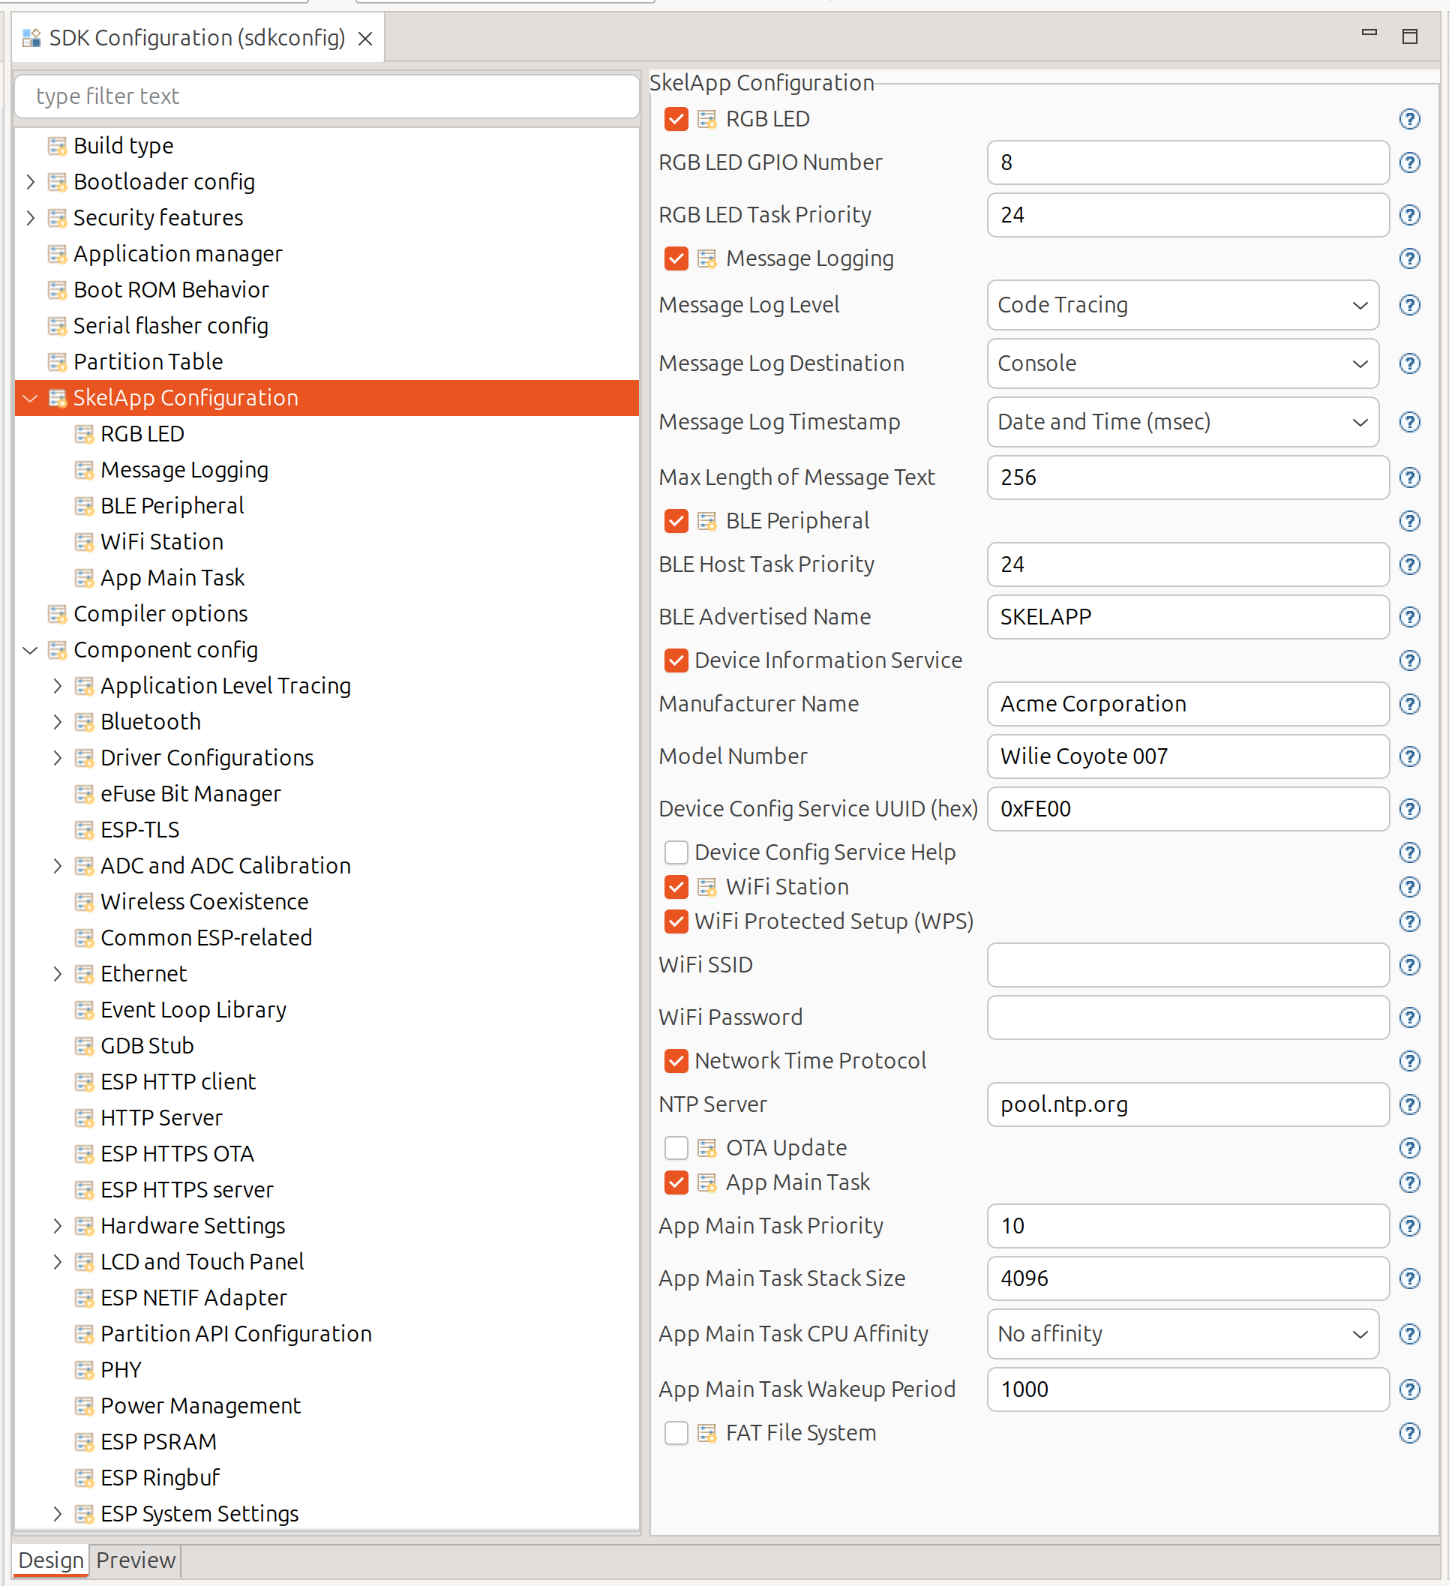
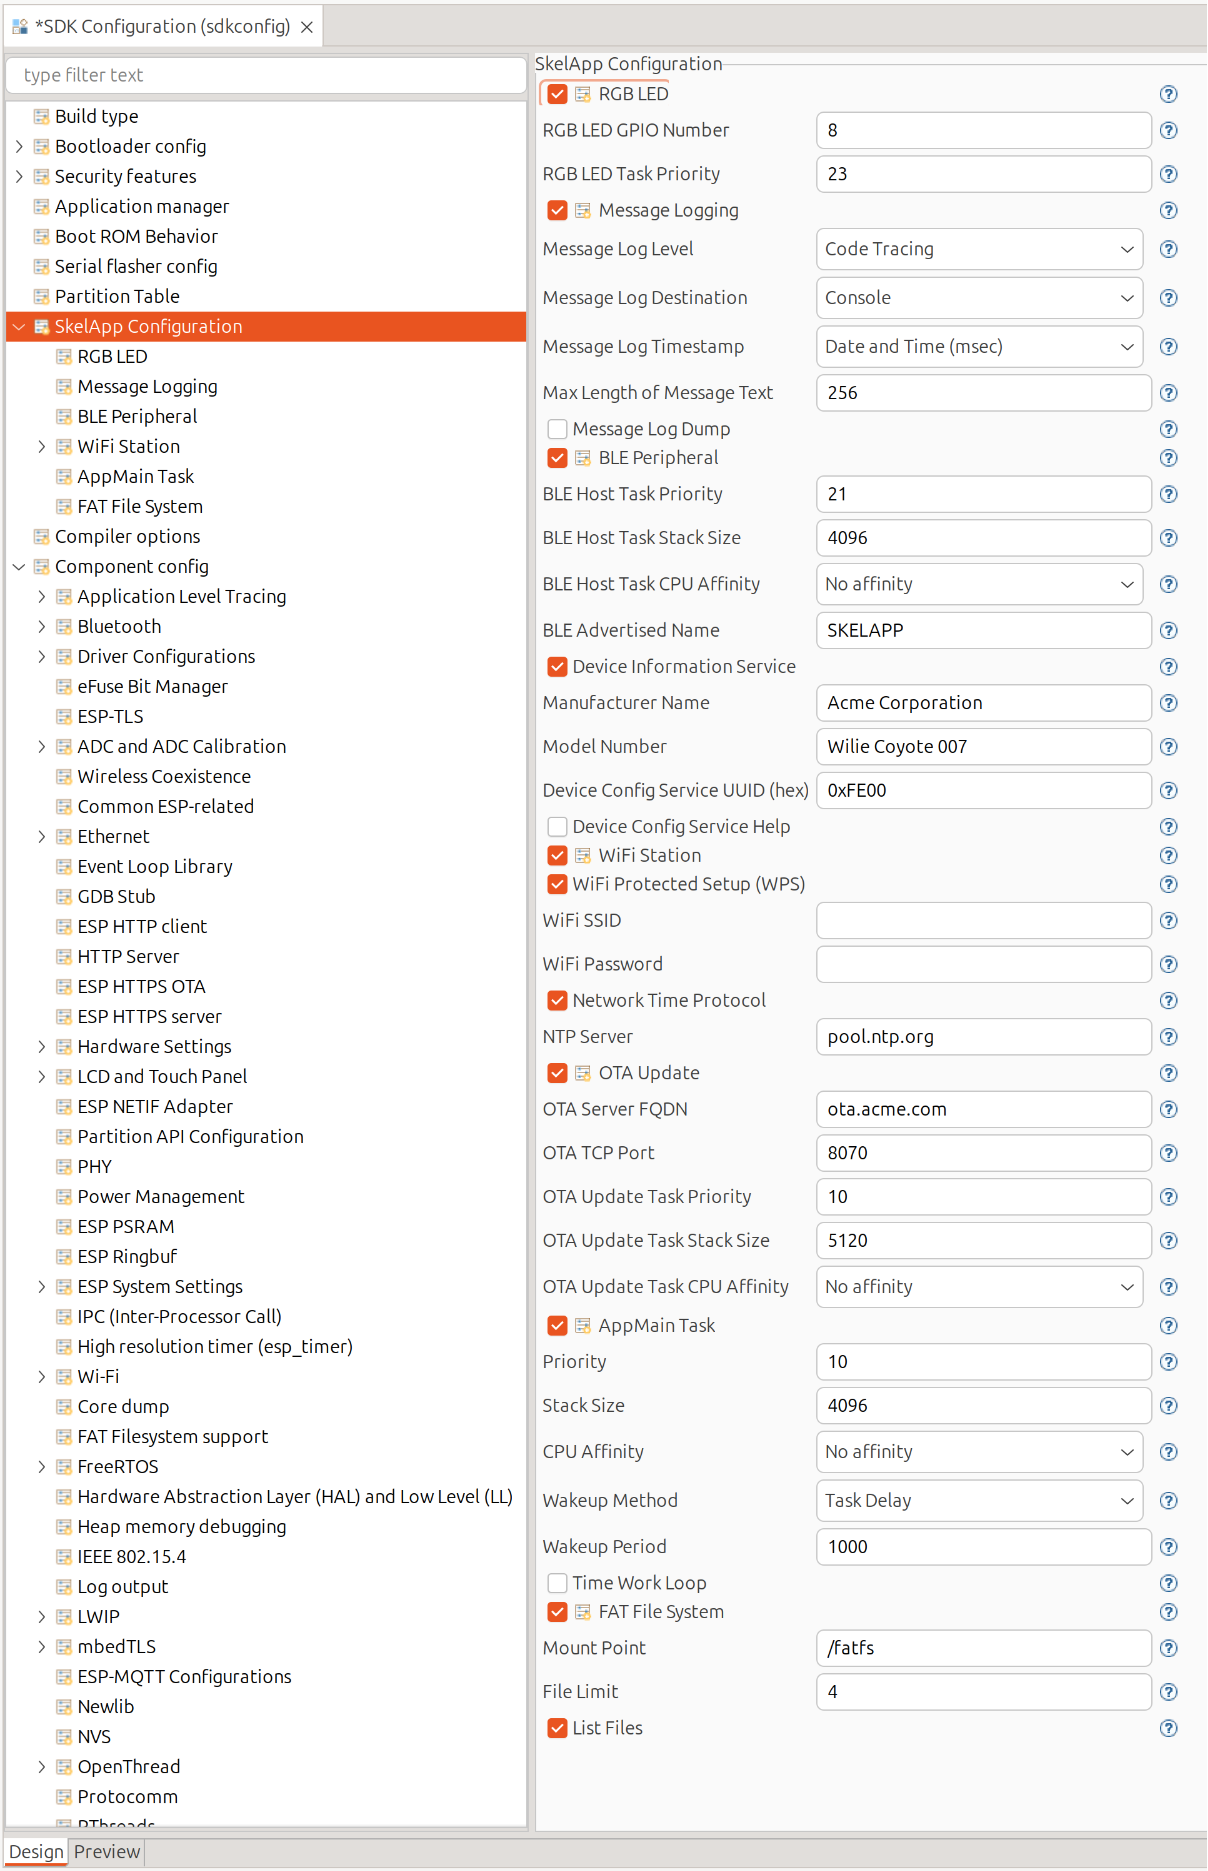
Added APP_MAIN_TASK_WAKEUP_METHOD to Kconfig to be able to select the wake up method used by the appMainTask to run its work loop.

diff --git a/main/app.c b/main/app.c
@@ -114,13 +114,6 @@ int deleteMlogFile(bool warn)
 }
 
 #ifdef CONFIG_APP_MAIN_TASK
-// Wake up the appMainTask
-static void wakeupTimerCb(void *arg)
-{
-    const TaskHandle_t appMainHandle = *(TaskHandle_t *) arg;
-    xTaskNotifyGive(appMainHandle);
-}
-
 // Custom app initialization
 static int appCustInit(void)
 {
@@ -130,18 +123,69 @@ static int appCustInit(void)
 
 // This is the app's main task. It runs an infinite work
 // loop, trying its best to keep a constant wake up interval.
+#if CONFIG_APP_MAIN_TASK_WAKEUP_METHOD_TASK_DELAY
+void appMainTask(void *parms)
+{
+    const TickType_t wakeupPeriodTicks = pdMS_TO_TICKS(CONFIG_MAIN_TASK_WAKEUP_PERIOD);
+
+    // Do any custom app initialization before
+    // entering the infinite work loop.
+    if (appCustInit() != 0) {
+        mlog(fatal, "Custom app initialization failed!");
+    }
+
+    while (true) {
+        TickType_t startTicks, elapsedTicks;
+
+        // Record the start of this new pass of our
+        // work loop.
+        startTicks = xTaskGetTickCount();
+
+        // Custom app code goes here...
+        mlog(info, "TICK!");
+
+        // Figure out how much time we spent so far
+        elapsedTicks = xTaskGetTickCount() - startTicks;
+
+        if (elapsedTicks < wakeupPeriodTicks) {
+            // Sleep until the next poll period...
+            TickType_t delayTicks = wakeupPeriodTicks - elapsedTicks;
+            vTaskDelay(delayTicks);
+        } else if (elapsedTicks > wakeupPeriodTicks) {
+            // Oops! We exceeded the required wake up period!
+            mlog(warning, "%u ms wakeup period exceeded by %lu ms !!!", CONFIG_MAIN_TASK_WAKEUP_PERIOD, pdTICKS_TO_MS(elapsedTicks - wakeupPeriodTicks));
+        }
+    }
+
+    vTaskDelete(NULL);
+}
+#else
+// Wake up the appMainTask
+static void wakeupTimerCb(void *arg)
+{
+    const TaskHandle_t appMainHandle = *(TaskHandle_t *) arg;
+    xTaskNotifyGive(appMainHandle);
+}
+
 void appMainTask(void *parms)
 {
     const TaskHandle_t appMainHandle = xTaskGetCurrentTaskHandle();
     const uint64_t wakeupPeriod = CONFIG_MAIN_TASK_WAKEUP_PERIOD * 1000;    // in usec
     esp_timer_create_args_t wakeupTimerArgs = {0};
     esp_timer_handle_t wakeupTimerHandle;
+#ifdef CONFIG_MAIN_TASK_TIME_WORK_LOOP
+    uint64_t workLoopCount = 0;
+    uint64_t sumWorkLoopTime = 0;
+    uint64_t minWorkLoopTime = UINT64_MAX;
+    uint64_t maxWorkLoopTime = 0;
+    uint64_t avgWorkLoopTime = 0;
+#endif
 
     // Create the ESP Timer used to post the
     // wake up events.
     wakeupTimerArgs.callback = wakeupTimerCb;
     wakeupTimerArgs.arg = (void *) &appMainHandle;
-    wakeupTimerArgs.dispatch_method = ESP_TIMER_ISR;
+    wakeupTimerArgs.dispatch_method = ESP_TIMER_TASK;
     wakeupTimerArgs.name = "wakeupTmr";
     if (esp_timer_create(&wakeupTimerArgs, &wakeupTimerHandle) != ESP_OK) {
         mlog(fatal, "Failed to create wakeupTimer!");
@@ -161,25 +205,43 @@ void appMainTask(void *parms)
         startTime = esp_timer_get_time();
 
         // Custom app code goes here...
-        mlog(trace, "Hello world!");
+        mlog(info, "TICK!");
 
         // Figure out how much time we spent so far
         elapsedTime = esp_timer_get_time() - startTime;
 
         if (elapsedTime < wakeupPeriod) {
-            // Sleep until the next poll period...
+            // Set up the wake up alarm ...
             uint64_t sleepTime = wakeupPeriod - elapsedTime;
             if (esp_timer_start_once(wakeupTimerHandle, sleepTime) != ESP_OK) {
                 mlog(fatal, "Failed to start wakeupTimer!");
             }
+
+            // ... and go to sleep
             ulTaskNotifyTake(pdTRUE, portMAX_DELAY);
         } else if (elapsedTime > wakeupPeriod) {
             // Oops! We exceeded the required wake up period!
             uint32_t exceedTime = (elapsedTime - wakeupPeriod);
-            mlog(warning, "Wakeup period exceeded by %lu.%06lu ms !!!", (exceedTime / 1000), (exceedTime % 1000));
+            mlog(warning, "%u ms wakeup period exceeded by %lu.%03lu ms !!!", CONFIG_MAIN_TASK_WAKEUP_PERIOD, (exceedTime / 1000), (exceedTime % 1000));
         }
+
+#ifdef CONFIG_MAIN_TASK_TIME_WORK_LOOP
+        uint64_t wakeupTime = esp_timer_get_time();
+        uint64_t workLoopTime = wakeupTime - startTime;
+        if (workLoopTime < minWorkLoopTime) {
+            minWorkLoopTime = workLoopTime;
+        } else if (workLoopTime > maxWorkLoopTime) {
+            maxWorkLoopTime = workLoopTime;
+        }
+        sumWorkLoopTime += workLoopTime;
+        avgWorkLoopTime = sumWorkLoopTime / ++workLoopCount;
+        if ((workLoopCount % (1000 / CONFIG_MAIN_TASK_WAKEUP_PERIOD)) == 0) {
+            mlog(trace, "Work Loop Time Stats: min=%llu avg=%llu max=%llu", minWorkLoopTime, avgWorkLoopTime, maxWorkLoopTime);
+        }
+#endif
     }
 
     vTaskDelete(NULL);
 }
 #endif
+#endif  // CONFIG_APP_MAIN_TASK

diff --git a/main/main.c b/main/main.c
@@ -23,10 +23,14 @@ _Static_assert((CONFIG_RGB_LED_TASK_PRIO <= (configMAX_PRIORITIES - 1)), "RGB_LE
 _Static_assert((CONFIG_BLE_HOST_TASK_PRIO <= (configMAX_PRIORITIES - 1)), "BLE_HOST_TASK_PRIO is inconsistent with configMAX_PRIORITIES !");
 #endif
 #ifdef CONFIG_OTA_UPDATE
-_Static_assert((CONFIG_OTA_TASK_PRIO <= (configMAX_PRIORITIES - 1)), "CONFIG_OTA_TASK_PRIO is inconsistent with configMAX_PRIORITIES !");
+_Static_assert((CONFIG_OTA_TASK_PRIO <= (configMAX_PRIORITIES - 1)), "OTA_TASK_PRIO is inconsistent with configMAX_PRIORITIES !");
 #endif
 #ifdef CONFIG_APP_MAIN_TASK
-_Static_assert((CONFIG_MAIN_TASK_PRIO <= (configMAX_PRIORITIES - 1)), "CONFIG_MAIN_TASK_PRIO is inconsistent with configMAX_PRIORITIES !");
+_Static_assert((CONFIG_MAIN_TASK_PRIO <= (configMAX_PRIORITIES - 1)), "MAIN_TASK_PRIO is inconsistent with configMAX_PRIORITIES !");
+#if CONFIG_APP_MAIN_TASK_WAKEUP_METHOD_TASK_DELAY
+_Static_assert((CONFIG_MAIN_TASK_WAKEUP_PERIOD >= (1000 / CONFIG_FREERTOS_HZ)), "MAIN_TASK_WAKEUP_PERIOD is lower than the RTOS tick period !");
+_Static_assert((CONFIG_MAIN_TASK_WAKEUP_PERIOD % (1000 / CONFIG_FREERTOS_HZ) == 0), "MAIN_TASK_WAKEUP_PERIOD is not a multiple of the RTOS tick period !");
+#endif
 #endif
 
 #if CONFIG_WIFI_NTP
